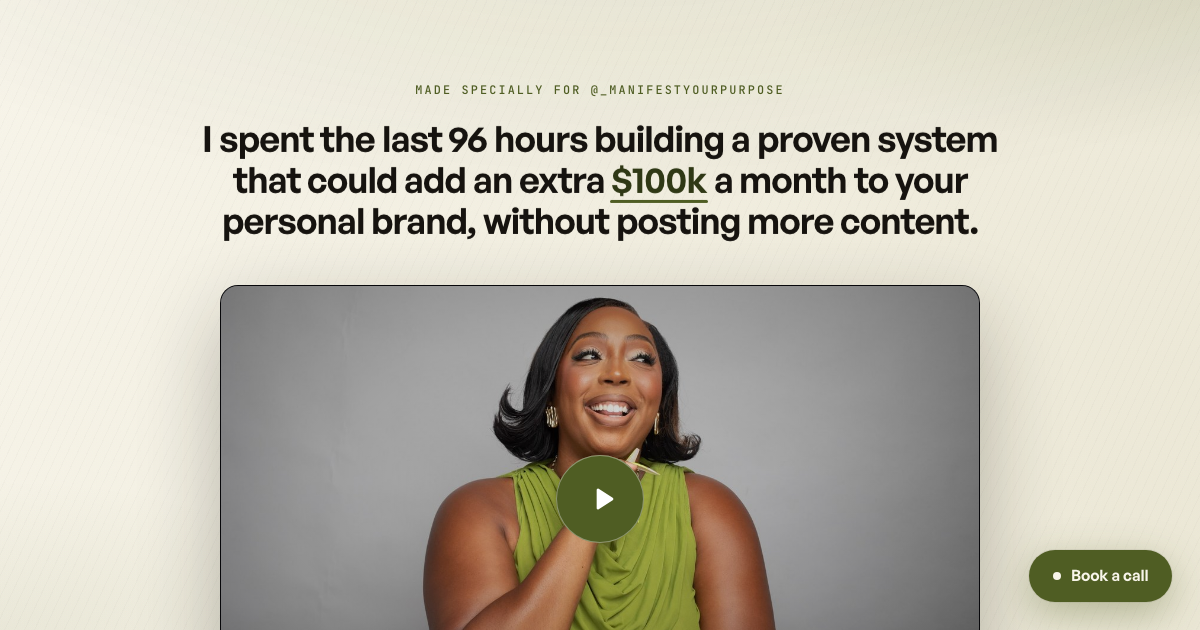
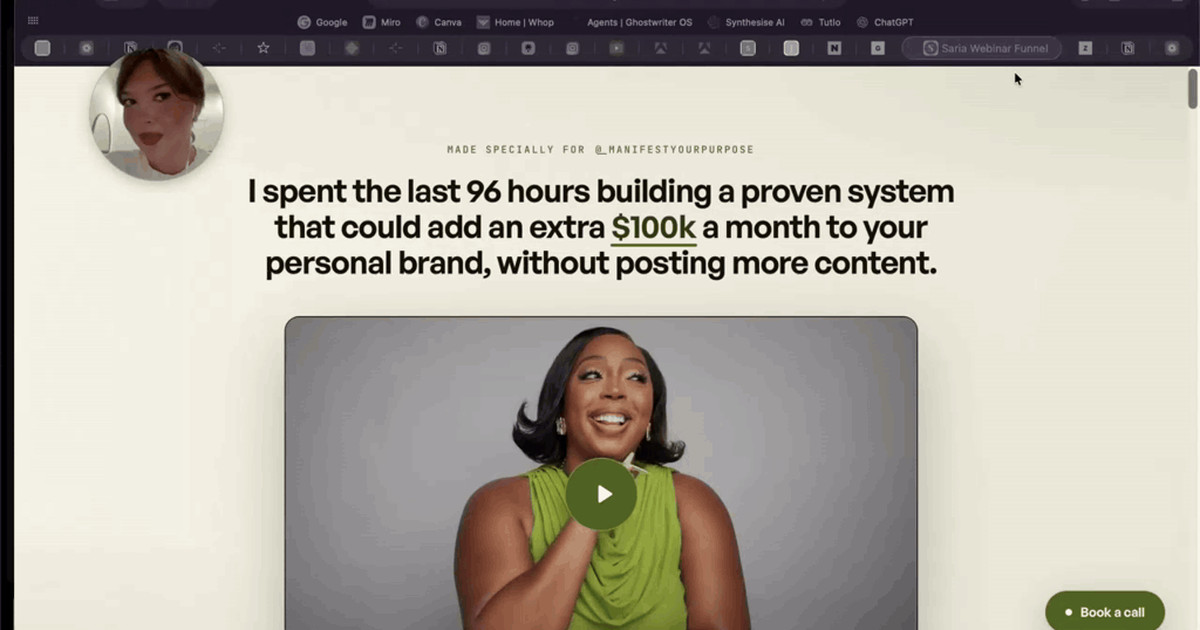
Link preview shows the Loom recording; fix Loom per prospect

diff --git a/index.html b/index.html
@@ -8,14 +8,14 @@
   <meta name="robots" content="noindex" />
   <meta property="og:title" content="Saria, adding an extra $100k a month to your personal brand" />
   <meta property="og:description" content="Saria, adding an extra $100k a month to your personal brand" />
-  <meta property="og:image" content="https://nikola424.github.io/for-manifestyourpurpose/og.png?v=1" />
+  <meta property="og:image" content="https://nikola424.github.io/for-manifestyourpurpose/og.png?v=loom1" />
   <meta property="og:image:width" content="1200" />
   <meta property="og:image:height" content="630" />
   <meta property="og:url" content="https://nikola424.github.io/for-manifestyourpurpose/" />
   <meta property="og:type" content="website" />
   <meta name="twitter:card" content="summary_large_image" />
   <meta name="twitter:title" content="Saria, adding an extra $100k a month to your personal brand" />
-  <meta name="twitter:image" content="https://nikola424.github.io/for-manifestyourpurpose/og.png?v=1" />
+  <meta name="twitter:image" content="https://nikola424.github.io/for-manifestyourpurpose/og.png?v=loom1" />
   <!-- Generated per build from the PROSPECT'S logo: node scripts/make_favicon.js {folder} -->
   <link rel="icon" href="assets/img/favicon.png" type="image/png" />
   <link rel="apple-touch-icon" href="assets/img/apple-touch-icon.png" />
@@ -34,7 +34,7 @@
        caseStudies : optional. [{ youtube: "VIDEO_ID" | image: "path", result: "$48k in 30 days", title: "...", text: "..." }]
     ============================================================================== */
     window.PITCH_CONFIG = {
-      heroEmbed: "https://www.loom.com/share/849af4f74d6c4b33a97cfea01bbf4da6",
+      heroEmbed: "https://www.loom.com/share/05c96a93f658416da692066369ced7bf",
       calendly: "https://calendly.com/nikola-monetisebetter/discovery",
       mode: (new URLSearchParams(location.search).get("mode") || "funnel"),
       brand: { logo: "", name: "", url: "", footer: "" },
